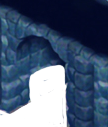
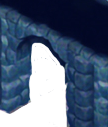
added first Cover1

diff --git a/ICS4U-Final-Project/PortalTest.java b/ICS4U-Final-Project/PortalTest.java
@@ -26,6 +26,9 @@ public class PortalTest extends World
         
         
         setPaintOrder(Dungeon1Cover1.class, Player.class, Others.class, WorldBackground.class);
+        
+        
+        
         setBackground("images/hWall.png");
         
         wbg2 = new WorldBackground(background);
@@ -33,8 +36,10 @@ public class PortalTest extends World
         Others ep2 = new EnterPortal();
         addObject(ep2, 260, 115);
         
-        Dungeon1Cover1 c1 = new Dungeon1Cover1();
-        addObject(c1, 860, 115);
+        Others c1 = new Dungeon1Cover1();
+        addObject(c1, 240, 305);
+        
+        
         
         
         FreeMovement playerTest = new Player(this.getWidth()/2, this.getHeight()/2);

diff --git a/ICS4U-Final-Project/Dungeon1Cover1.java b/ICS4U-Final-Project/Dungeon1Cover1.java
@@ -15,6 +15,13 @@ public class Dungeon1Cover1 extends Others
     
     private GreenfootImage coverImage = new GreenfootImage("images/Cover1.png");
     
+    public void addedToWorld(World GameWorld){
+        //System.out.println("wall pos: " + getX() + " " + getY());
+        
+        xg = getX();
+        yg = getY();
+    }
+    
     public Dungeon1Cover1() 
     {
         // Add your action code here.
